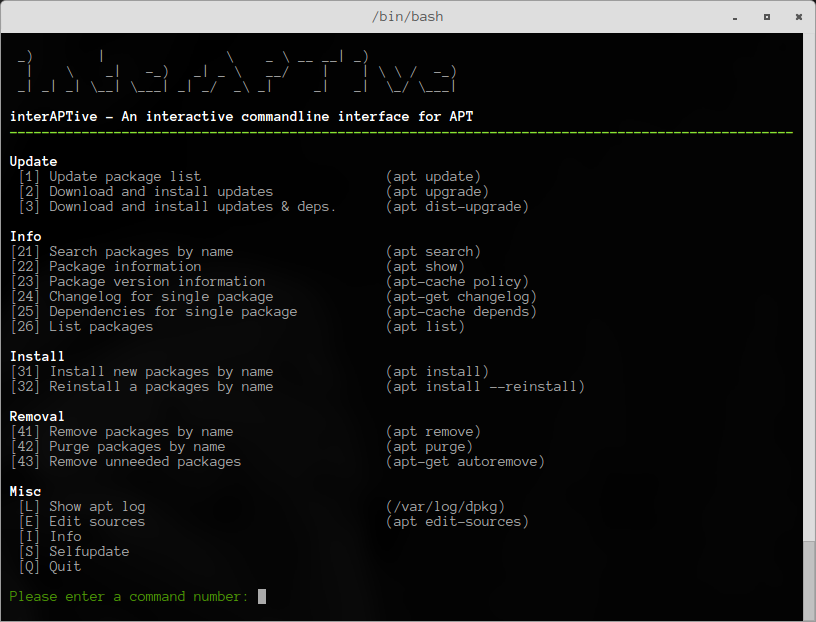
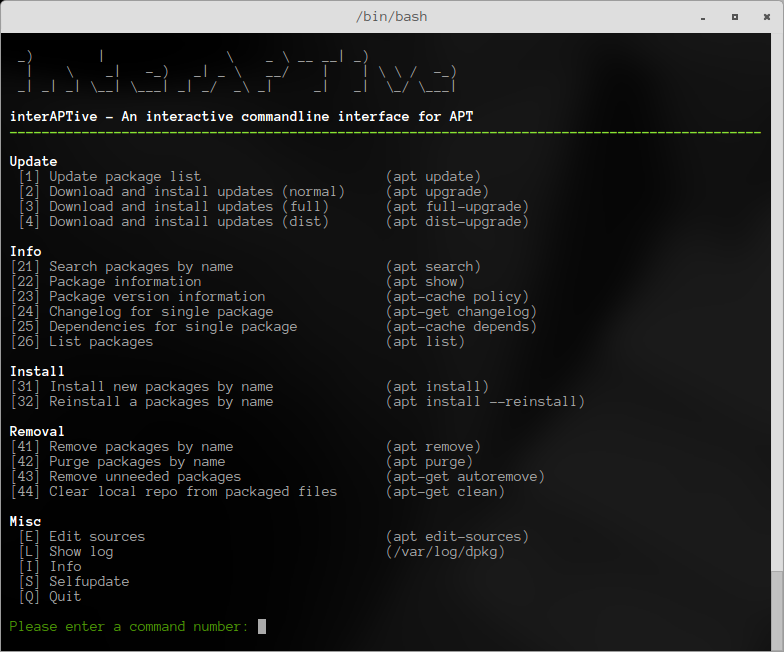
20160503.01 - Finishing work on milestone 0.6 - closing #25 and #26

diff --git a/CHANGELOG.md b/CHANGELOG.md
@@ -1,11 +1,14 @@
 ![logo](https://raw.githubusercontent.com/yafp/interAPTive/master/doc/fa-repeat_64_0_000000_none.png) interAPTive Changelog
 ==========
 
-0.6 - Rust (201605xx)
+0.6 - Rust (20160503)
 =====================
 - Change min window height handling (#20)
 - Add apt full-upgrade command (#22)
 - Add apt-get clean command (#23)
+- Write errors to syslog via logger (#25)
+- Optimize selfupdate (#26)
+- Invalid command input by user now throws an error message
 
 
 0.5 - sup? (20160425)
